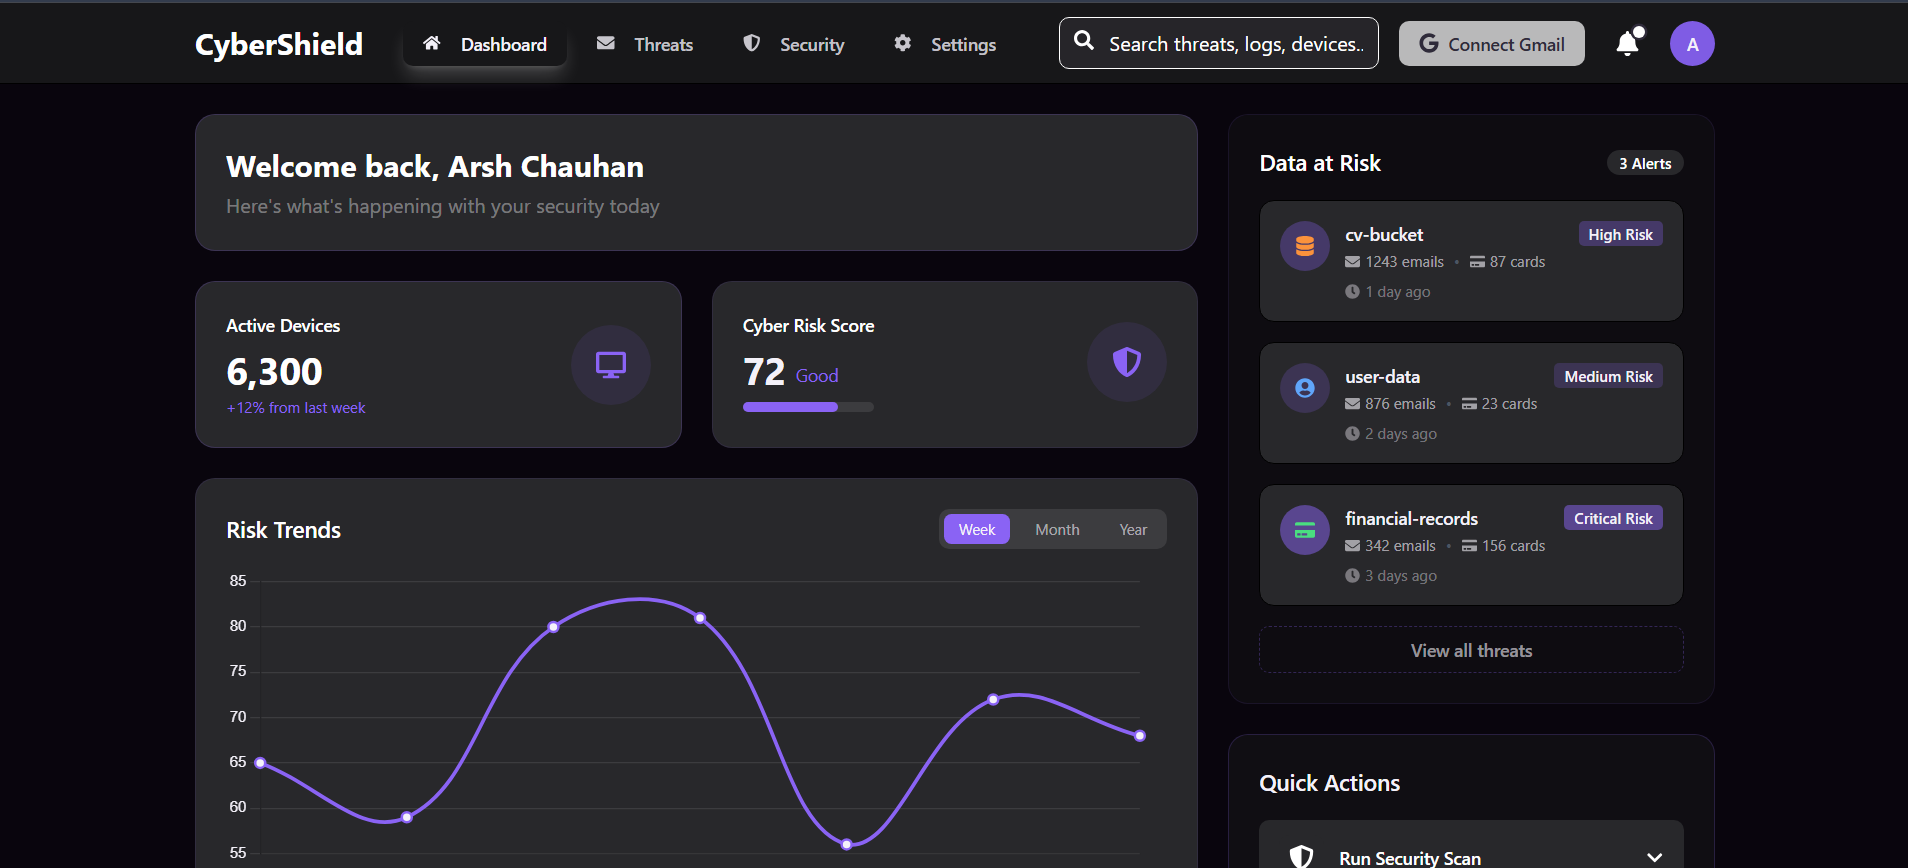
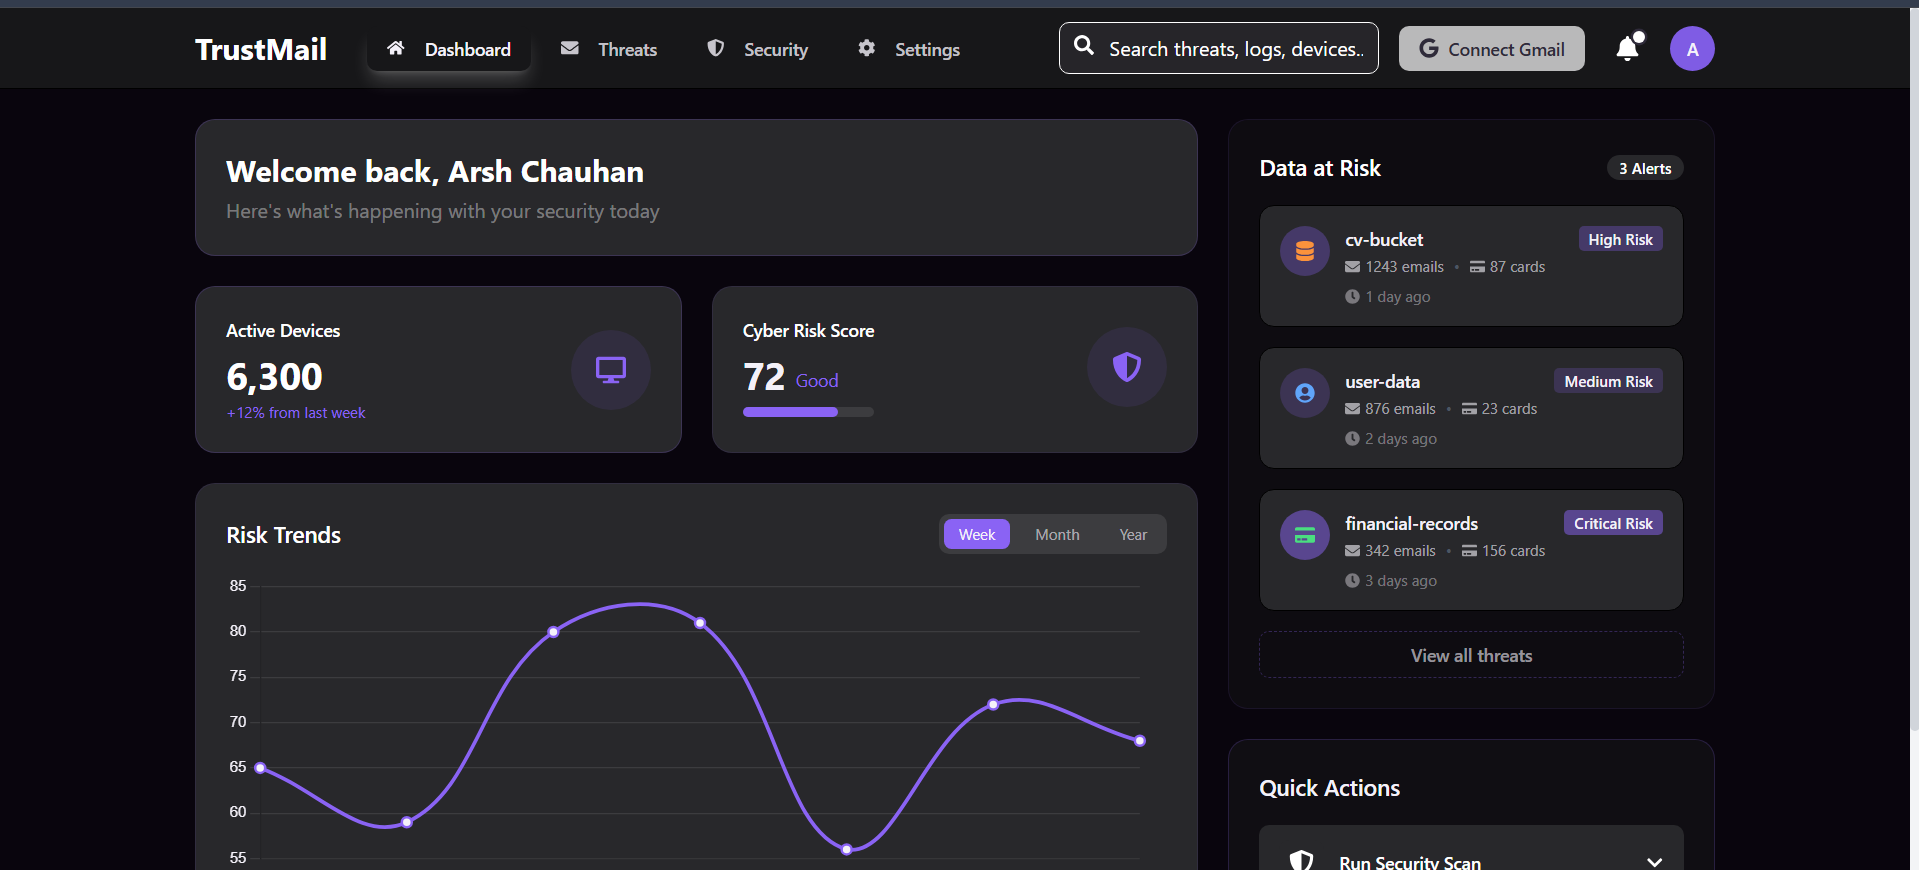
Comming Soon

diff --git a/README.md b/README.md
@@ -5,7 +5,7 @@
 
 ---
 
-![alt text](image.png)
+![alt text](frontend/public/Dashboard.png)
 
 # 🛡 CyberShield — Cybersecurity Monitoring Dashboard
 
